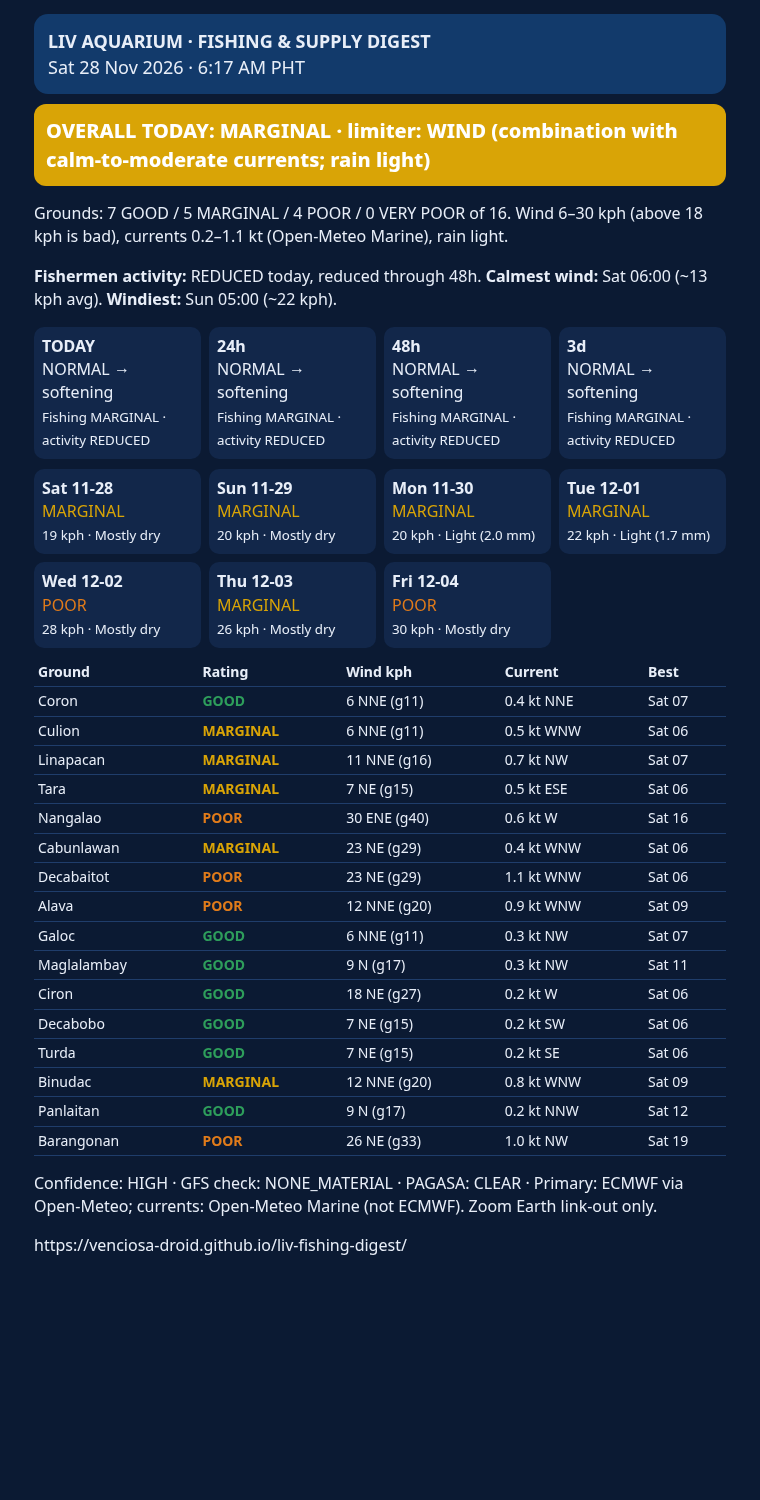
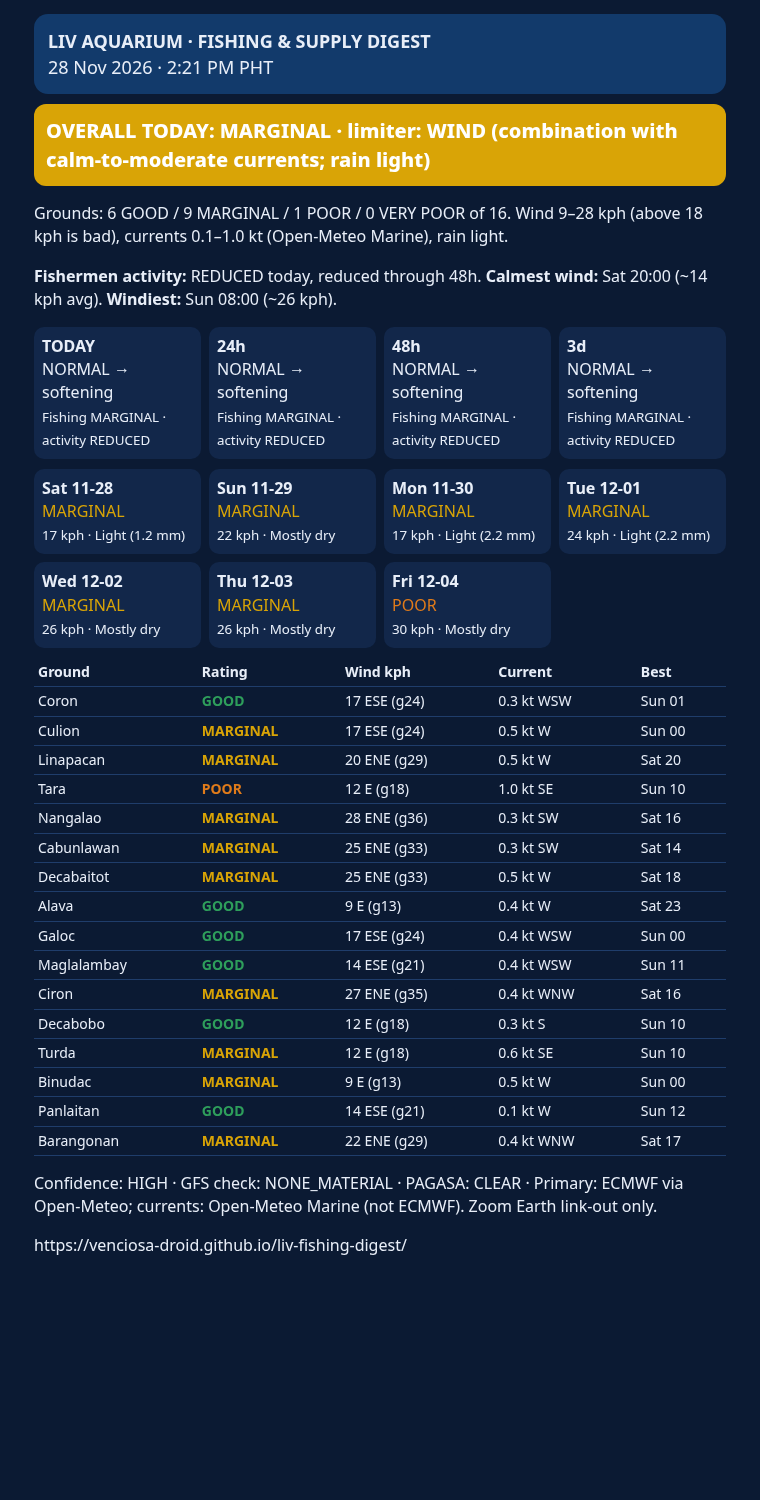
Digest 2026-11-28-pm

diff --git a/digest.html b/digest.html
@@ -1,9 +1,9 @@
-<!DOCTYPE html><html lang=en><head><meta name="viewport" content="width=device-width,initial-scale=1"><meta charset=utf-8><meta name=viewport content='width=device-width,initial-scale=1'><title>LIV Digest Sat 28 Nov 2026 · 6:17 AM PHT</title><style>*{box-sizing:border-box}body{max-width:720px;margin:0 auto;background:#0b1a33;color:#e8eef8;font:16px/1.45 system-ui,sans-serif;padding:14px}.hd{background:#123a6b;border-radius:14px;padding:14px;margin-bottom:10px;font-size:18px}.big{border-radius:12px;padding:12px;font-weight:800;font-size:20px;color:#fff;margin-bottom:10px}.g{display:grid;grid-template-columns:repeat(auto-fit,minmax(150px,1fr));gap:8px;margin:10px 0}.s{background:#12274a;border-radius:10px;padding:8px}table{width:100%;border-collapse:collapse;font-size:14px}td,th{padding:4px;border-bottom:1px solid #1f3d6b;text-align:left}</style></head><body><div style="font:14px system-ui;padding:8px 12px;background:#0b3d5c;color:#fff"><b>LIV Fishing &amp; Supply digest</b> &middot; <a style="color:#9fd8ff" href="./index.html">Map dashboard</a> &middot; <a style="color:#9fd8ff" href="./digest.html">Latest report</a> &middot; <a style="color:#9fd8ff" href="./archive/">Archive</a> &middot; <a style="color:#9fd8ff" href="latest.png">Image</a></div><div class=hd><b>LIV AQUARIUM · FISHING &amp; SUPPLY DIGEST</b><br>Sat 28 Nov 2026 · 6:17 AM PHT</div>
+<!DOCTYPE html><html lang=en><head><meta name="viewport" content="width=device-width,initial-scale=1"><meta charset=utf-8><meta name=viewport content='width=device-width,initial-scale=1'><title>LIV Digest 28 Nov 2026 · 2:21 PM PHT</title><style>*{box-sizing:border-box}body{max-width:720px;margin:0 auto;background:#0b1a33;color:#e8eef8;font:16px/1.45 system-ui,sans-serif;padding:14px}.hd{background:#123a6b;border-radius:14px;padding:14px;margin-bottom:10px;font-size:18px}.big{border-radius:12px;padding:12px;font-weight:800;font-size:20px;color:#fff;margin-bottom:10px}.g{display:grid;grid-template-columns:repeat(auto-fit,minmax(150px,1fr));gap:8px;margin:10px 0}.s{background:#12274a;border-radius:10px;padding:8px}table{width:100%;border-collapse:collapse;font-size:14px}td,th{padding:4px;border-bottom:1px solid #1f3d6b;text-align:left}</style></head><body><div style="font:14px system-ui;padding:8px 12px;background:#0b3d5c;color:#fff"><b>LIV Fishing &amp; Supply digest</b> &middot; <a style="color:#9fd8ff" href="./index.html">Map dashboard</a> &middot; <a style="color:#9fd8ff" href="./digest.html">Latest report</a> &middot; <a style="color:#9fd8ff" href="./archive/">Archive</a> &middot; <a style="color:#9fd8ff" href="latest.png">Image</a></div><div class=hd><b>LIV AQUARIUM · FISHING &amp; SUPPLY DIGEST</b><br>28 Nov 2026 · 2:21 PM PHT</div>
 <div class=big style='background:#d9a406'>OVERALL TODAY: MARGINAL · limiter: WIND (combination with calm-to-moderate currents; rain light)</div>
-<p>Grounds: 7 GOOD / 5 MARGINAL / 4 POOR / 0 VERY POOR of 16. Wind 6–30 kph (above 18 kph is bad), currents 0.2–1.1 kt (Open-Meteo Marine), rain light.</p>
-<p><b>Fishermen activity:</b> REDUCED today, reduced through 48h. <b>Calmest wind:</b> Sat 06:00 (~13 kph avg). <b>Windiest:</b> Sun 05:00 (~22 kph).</p>
+<p>Grounds: 6 GOOD / 9 MARGINAL / 1 POOR / 0 VERY POOR of 16. Wind 9–28 kph (above 18 kph is bad), currents 0.1–1.0 kt (Open-Meteo Marine), rain light.</p>
+<p><b>Fishermen activity:</b> REDUCED today, reduced through 48h. <b>Calmest wind:</b> Sat 20:00 (~14 kph avg). <b>Windiest:</b> Sun 08:00 (~26 kph).</p>
 <div class=g><div class=s><b>TODAY</b><br>NORMAL → softening<br><small>Fishing MARGINAL · activity REDUCED</small></div><div class=s><b>24h</b><br>NORMAL → softening<br><small>Fishing MARGINAL · activity REDUCED</small></div><div class=s><b>48h</b><br>NORMAL → softening<br><small>Fishing MARGINAL · activity REDUCED</small></div><div class=s><b>3d</b><br>NORMAL → softening<br><small>Fishing MARGINAL · activity REDUCED</small></div></div>
-<div class=g><div class=s><b>Sat 11-28</b><br style=x><span style='color:#d9a406'>MARGINAL</span><br><small>19 kph · Mostly dry</small></div><div class=s><b>Sun 11-29</b><br style=x><span style='color:#d9a406'>MARGINAL</span><br><small>20 kph · Mostly dry</small></div><div class=s><b>Mon 11-30</b><br style=x><span style='color:#d9a406'>MARGINAL</span><br><small>20 kph · Light (2.0 mm)</small></div><div class=s><b>Tue 12-01</b><br style=x><span style='color:#d9a406'>MARGINAL</span><br><small>22 kph · Light (1.7 mm)</small></div><div class=s><b>Wed 12-02</b><br style=x><span style='color:#e07b1a'>POOR</span><br><small>28 kph · Mostly dry</small></div><div class=s><b>Thu 12-03</b><br style=x><span style='color:#d9a406'>MARGINAL</span><br><small>26 kph · Mostly dry</small></div><div class=s><b>Fri 12-04</b><br style=x><span style='color:#e07b1a'>POOR</span><br><small>30 kph · Mostly dry</small></div></div>
-<table><tr><th>Ground</th><th>Rating</th><th>Wind kph</th><th>Current</th><th>Best</th></tr><tr><td>Coron</td><td style='color:#2e9e5b;font-weight:700'>GOOD</td><td>6 NNE (g11)</td><td>0.4 kt NNE</td><td>Sat 07</td></tr><tr><td>Culion</td><td style='color:#d9a406;font-weight:700'>MARGINAL</td><td>6 NNE (g11)</td><td>0.5 kt WNW</td><td>Sat 06</td></tr><tr><td>Linapacan</td><td style='color:#d9a406;font-weight:700'>MARGINAL</td><td>11 NNE (g16)</td><td>0.7 kt NW</td><td>Sat 07</td></tr><tr><td>Tara</td><td style='color:#d9a406;font-weight:700'>MARGINAL</td><td>7 NE (g15)</td><td>0.5 kt ESE</td><td>Sat 06</td></tr><tr><td>Nangalao</td><td style='color:#e07b1a;font-weight:700'>POOR</td><td>30 ENE (g40)</td><td>0.6 kt W</td><td>Sat 16</td></tr><tr><td>Cabunlawan</td><td style='color:#d9a406;font-weight:700'>MARGINAL</td><td>23 NE (g29)</td><td>0.4 kt WNW</td><td>Sat 06</td></tr><tr><td>Decabaitot</td><td style='color:#e07b1a;font-weight:700'>POOR</td><td>23 NE (g29)</td><td>1.1 kt WNW</td><td>Sat 06</td></tr><tr><td>Alava</td><td style='color:#e07b1a;font-weight:700'>POOR</td><td>12 NNE (g20)</td><td>0.9 kt WNW</td><td>Sat 09</td></tr><tr><td>Galoc</td><td style='color:#2e9e5b;font-weight:700'>GOOD</td><td>6 NNE (g11)</td><td>0.3 kt NW</td><td>Sat 07</td></tr><tr><td>Maglalambay</td><td style='color:#2e9e5b;font-weight:700'>GOOD</td><td>9 N (g17)</td><td>0.3 kt NW</td><td>Sat 11</td></tr><tr><td>Ciron</td><td style='color:#2e9e5b;font-weight:700'>GOOD</td><td>18 NE (g27)</td><td>0.2 kt W</td><td>Sat 06</td></tr><tr><td>Decabobo</td><td style='color:#2e9e5b;font-weight:700'>GOOD</td><td>7 NE (g15)</td><td>0.2 kt SW</td><td>Sat 06</td></tr><tr><td>Turda</td><td style='color:#2e9e5b;font-weight:700'>GOOD</td><td>7 NE (g15)</td><td>0.2 kt SE</td><td>Sat 06</td></tr><tr><td>Binudac</td><td style='color:#d9a406;font-weight:700'>MARGINAL</td><td>12 NNE (g20)</td><td>0.8 kt WNW</td><td>Sat 09</td></tr><tr><td>Panlaitan</td><td style='color:#2e9e5b;font-weight:700'>GOOD</td><td>9 N (g17)</td><td>0.2 kt NNW</td><td>Sat 12</td></tr><tr><td>Barangonan</td><td style='color:#e07b1a;font-weight:700'>POOR</td><td>26 NE (g33)</td><td>1.0 kt NW</td><td>Sat 19</td></tr></table>
+<div class=g><div class=s><b>Sat 11-28</b><br style=x><span style='color:#d9a406'>MARGINAL</span><br><small>17 kph · Light (1.2 mm)</small></div><div class=s><b>Sun 11-29</b><br style=x><span style='color:#d9a406'>MARGINAL</span><br><small>22 kph · Mostly dry</small></div><div class=s><b>Mon 11-30</b><br style=x><span style='color:#d9a406'>MARGINAL</span><br><small>17 kph · Light (2.2 mm)</small></div><div class=s><b>Tue 12-01</b><br style=x><span style='color:#d9a406'>MARGINAL</span><br><small>24 kph · Light (2.2 mm)</small></div><div class=s><b>Wed 12-02</b><br style=x><span style='color:#d9a406'>MARGINAL</span><br><small>26 kph · Mostly dry</small></div><div class=s><b>Thu 12-03</b><br style=x><span style='color:#d9a406'>MARGINAL</span><br><small>26 kph · Mostly dry</small></div><div class=s><b>Fri 12-04</b><br style=x><span style='color:#e07b1a'>POOR</span><br><small>30 kph · Mostly dry</small></div></div>
+<table><tr><th>Ground</th><th>Rating</th><th>Wind kph</th><th>Current</th><th>Best</th></tr><tr><td>Coron</td><td style='color:#2e9e5b;font-weight:700'>GOOD</td><td>17 ESE (g24)</td><td>0.3 kt WSW</td><td>Sun 01</td></tr><tr><td>Culion</td><td style='color:#d9a406;font-weight:700'>MARGINAL</td><td>17 ESE (g24)</td><td>0.5 kt W</td><td>Sun 00</td></tr><tr><td>Linapacan</td><td style='color:#d9a406;font-weight:700'>MARGINAL</td><td>20 ENE (g29)</td><td>0.5 kt W</td><td>Sat 20</td></tr><tr><td>Tara</td><td style='color:#e07b1a;font-weight:700'>POOR</td><td>12 E (g18)</td><td>1.0 kt SE</td><td>Sun 10</td></tr><tr><td>Nangalao</td><td style='color:#d9a406;font-weight:700'>MARGINAL</td><td>28 ENE (g36)</td><td>0.3 kt SW</td><td>Sat 16</td></tr><tr><td>Cabunlawan</td><td style='color:#d9a406;font-weight:700'>MARGINAL</td><td>25 ENE (g33)</td><td>0.3 kt SW</td><td>Sat 14</td></tr><tr><td>Decabaitot</td><td style='color:#d9a406;font-weight:700'>MARGINAL</td><td>25 ENE (g33)</td><td>0.5 kt W</td><td>Sat 18</td></tr><tr><td>Alava</td><td style='color:#2e9e5b;font-weight:700'>GOOD</td><td>9 E (g13)</td><td>0.4 kt W</td><td>Sat 23</td></tr><tr><td>Galoc</td><td style='color:#2e9e5b;font-weight:700'>GOOD</td><td>17 ESE (g24)</td><td>0.4 kt WSW</td><td>Sun 00</td></tr><tr><td>Maglalambay</td><td style='color:#2e9e5b;font-weight:700'>GOOD</td><td>14 ESE (g21)</td><td>0.4 kt WSW</td><td>Sun 11</td></tr><tr><td>Ciron</td><td style='color:#d9a406;font-weight:700'>MARGINAL</td><td>27 ENE (g35)</td><td>0.4 kt WNW</td><td>Sat 16</td></tr><tr><td>Decabobo</td><td style='color:#2e9e5b;font-weight:700'>GOOD</td><td>12 E (g18)</td><td>0.3 kt S</td><td>Sun 10</td></tr><tr><td>Turda</td><td style='color:#d9a406;font-weight:700'>MARGINAL</td><td>12 E (g18)</td><td>0.6 kt SE</td><td>Sun 10</td></tr><tr><td>Binudac</td><td style='color:#d9a406;font-weight:700'>MARGINAL</td><td>9 E (g13)</td><td>0.5 kt W</td><td>Sun 00</td></tr><tr><td>Panlaitan</td><td style='color:#2e9e5b;font-weight:700'>GOOD</td><td>14 ESE (g21)</td><td>0.1 kt W</td><td>Sun 12</td></tr><tr><td>Barangonan</td><td style='color:#d9a406;font-weight:700'>MARGINAL</td><td>22 ENE (g29)</td><td>0.4 kt WNW</td><td>Sat 17</td></tr></table>
 <p>Confidence: HIGH · GFS check: NONE_MATERIAL · PAGASA: CLEAR · Primary: ECMWF via Open-Meteo; currents: Open-Meteo Marine (not ECMWF). Zoom Earth link-out only.</p>
 <p>https://venciosa-droid.github.io/liv-fishing-digest/</p></body></html>

diff --git a/archive/2026-11-28-pm.html b/archive/2026-11-28-pm.html
@@ -1,0 +1,9 @@
+<!DOCTYPE html><html lang=en><head><meta name="viewport" content="width=device-width,initial-scale=1"><meta charset=utf-8><meta name=viewport content='width=device-width,initial-scale=1'><title>LIV Digest 28 Nov 2026 · 2:21 PM PHT</title><style>*{box-sizing:border-box}body{max-width:720px;margin:0 auto;background:#0b1a33;color:#e8eef8;font:16px/1.45 system-ui,sans-serif;padding:14px}.hd{background:#123a6b;border-radius:14px;padding:14px;margin-bottom:10px;font-size:18px}.big{border-radius:12px;padding:12px;font-weight:800;font-size:20px;color:#fff;margin-bottom:10px}.g{display:grid;grid-template-columns:repeat(auto-fit,minmax(150px,1fr));gap:8px;margin:10px 0}.s{background:#12274a;border-radius:10px;padding:8px}table{width:100%;border-collapse:collapse;font-size:14px}td,th{padding:4px;border-bottom:1px solid #1f3d6b;text-align:left}</style></head><body><div style="font:14px system-ui;padding:8px 12px;background:#0b3d5c;color:#fff"><b>LIV Fishing &amp; Supply digest</b> &middot; <a style="color:#9fd8ff" href="../index.html">Map dashboard</a> &middot; <a style="color:#9fd8ff" href="../digest.html">Latest report</a> &middot; <a style="color:#9fd8ff" href="../archive/">Archive</a> &middot; <a style="color:#9fd8ff" href="2026-11-28-pm.png">Image</a></div><div class=hd><b>LIV AQUARIUM · FISHING &amp; SUPPLY DIGEST</b><br>28 Nov 2026 · 2:21 PM PHT</div>
+<div class=big style='background:#d9a406'>OVERALL TODAY: MARGINAL · limiter: WIND (combination with calm-to-moderate currents; rain light)</div>
+<p>Grounds: 6 GOOD / 9 MARGINAL / 1 POOR / 0 VERY POOR of 16. Wind 9–28 kph (above 18 kph is bad), currents 0.1–1.0 kt (Open-Meteo Marine), rain light.</p>
+<p><b>Fishermen activity:</b> REDUCED today, reduced through 48h. <b>Calmest wind:</b> Sat 20:00 (~14 kph avg). <b>Windiest:</b> Sun 08:00 (~26 kph).</p>
+<div class=g><div class=s><b>TODAY</b><br>NORMAL → softening<br><small>Fishing MARGINAL · activity REDUCED</small></div><div class=s><b>24h</b><br>NORMAL → softening<br><small>Fishing MARGINAL · activity REDUCED</small></div><div class=s><b>48h</b><br>NORMAL → softening<br><small>Fishing MARGINAL · activity REDUCED</small></div><div class=s><b>3d</b><br>NORMAL → softening<br><small>Fishing MARGINAL · activity REDUCED</small></div></div>
+<div class=g><div class=s><b>Sat 11-28</b><br style=x><span style='color:#d9a406'>MARGINAL</span><br><small>17 kph · Light (1.2 mm)</small></div><div class=s><b>Sun 11-29</b><br style=x><span style='color:#d9a406'>MARGINAL</span><br><small>22 kph · Mostly dry</small></div><div class=s><b>Mon 11-30</b><br style=x><span style='color:#d9a406'>MARGINAL</span><br><small>17 kph · Light (2.2 mm)</small></div><div class=s><b>Tue 12-01</b><br style=x><span style='color:#d9a406'>MARGINAL</span><br><small>24 kph · Light (2.2 mm)</small></div><div class=s><b>Wed 12-02</b><br style=x><span style='color:#d9a406'>MARGINAL</span><br><small>26 kph · Mostly dry</small></div><div class=s><b>Thu 12-03</b><br style=x><span style='color:#d9a406'>MARGINAL</span><br><small>26 kph · Mostly dry</small></div><div class=s><b>Fri 12-04</b><br style=x><span style='color:#e07b1a'>POOR</span><br><small>30 kph · Mostly dry</small></div></div>
+<table><tr><th>Ground</th><th>Rating</th><th>Wind kph</th><th>Current</th><th>Best</th></tr><tr><td>Coron</td><td style='color:#2e9e5b;font-weight:700'>GOOD</td><td>17 ESE (g24)</td><td>0.3 kt WSW</td><td>Sun 01</td></tr><tr><td>Culion</td><td style='color:#d9a406;font-weight:700'>MARGINAL</td><td>17 ESE (g24)</td><td>0.5 kt W</td><td>Sun 00</td></tr><tr><td>Linapacan</td><td style='color:#d9a406;font-weight:700'>MARGINAL</td><td>20 ENE (g29)</td><td>0.5 kt W</td><td>Sat 20</td></tr><tr><td>Tara</td><td style='color:#e07b1a;font-weight:700'>POOR</td><td>12 E (g18)</td><td>1.0 kt SE</td><td>Sun 10</td></tr><tr><td>Nangalao</td><td style='color:#d9a406;font-weight:700'>MARGINAL</td><td>28 ENE (g36)</td><td>0.3 kt SW</td><td>Sat 16</td></tr><tr><td>Cabunlawan</td><td style='color:#d9a406;font-weight:700'>MARGINAL</td><td>25 ENE (g33)</td><td>0.3 kt SW</td><td>Sat 14</td></tr><tr><td>Decabaitot</td><td style='color:#d9a406;font-weight:700'>MARGINAL</td><td>25 ENE (g33)</td><td>0.5 kt W</td><td>Sat 18</td></tr><tr><td>Alava</td><td style='color:#2e9e5b;font-weight:700'>GOOD</td><td>9 E (g13)</td><td>0.4 kt W</td><td>Sat 23</td></tr><tr><td>Galoc</td><td style='color:#2e9e5b;font-weight:700'>GOOD</td><td>17 ESE (g24)</td><td>0.4 kt WSW</td><td>Sun 00</td></tr><tr><td>Maglalambay</td><td style='color:#2e9e5b;font-weight:700'>GOOD</td><td>14 ESE (g21)</td><td>0.4 kt WSW</td><td>Sun 11</td></tr><tr><td>Ciron</td><td style='color:#d9a406;font-weight:700'>MARGINAL</td><td>27 ENE (g35)</td><td>0.4 kt WNW</td><td>Sat 16</td></tr><tr><td>Decabobo</td><td style='color:#2e9e5b;font-weight:700'>GOOD</td><td>12 E (g18)</td><td>0.3 kt S</td><td>Sun 10</td></tr><tr><td>Turda</td><td style='color:#d9a406;font-weight:700'>MARGINAL</td><td>12 E (g18)</td><td>0.6 kt SE</td><td>Sun 10</td></tr><tr><td>Binudac</td><td style='color:#d9a406;font-weight:700'>MARGINAL</td><td>9 E (g13)</td><td>0.5 kt W</td><td>Sun 00</td></tr><tr><td>Panlaitan</td><td style='color:#2e9e5b;font-weight:700'>GOOD</td><td>14 ESE (g21)</td><td>0.1 kt W</td><td>Sun 12</td></tr><tr><td>Barangonan</td><td style='color:#d9a406;font-weight:700'>MARGINAL</td><td>22 ENE (g29)</td><td>0.4 kt WNW</td><td>Sat 17</td></tr></table>
+<p>Confidence: HIGH · GFS check: NONE_MATERIAL · PAGASA: CLEAR · Primary: ECMWF via Open-Meteo; currents: Open-Meteo Marine (not ECMWF). Zoom Earth link-out only.</p>
+<p>https://venciosa-droid.github.io/liv-fishing-digest/</p></body></html>

diff --git a/archive/index.html b/archive/index.html
@@ -1,4 +1,5 @@
 <!doctype html><meta charset=utf-8><meta name=viewport content="width=device-width,initial-scale=1"><title>LIV digest archive</title><body style="font:16px system-ui;max-width:640px;margin:auto;padding:12px"><h1>LIV digest archive</h1><p><a href="../">Map dashboard</a> · <a href="../digest.html">Latest report</a></p><ul>
+<li><a href="2026-11-28-pm.html">2026-11-28-pm</a> (<a href="2026-11-28-pm.png">image</a>)</li>
 <li><a href="2026-11-28-am.html">2026-11-28-am</a> (<a href="2026-11-28-am.png">image</a>)</li>
 <li><a href="2026-11-27-pm.html">2026-11-27-pm</a> (<a href="2026-11-27-pm.png">image</a>)</li>
 <li><a href="2026-11-27-am.html">2026-11-27-am</a> (<a href="2026-11-27-am.png">image</a>)</li>
